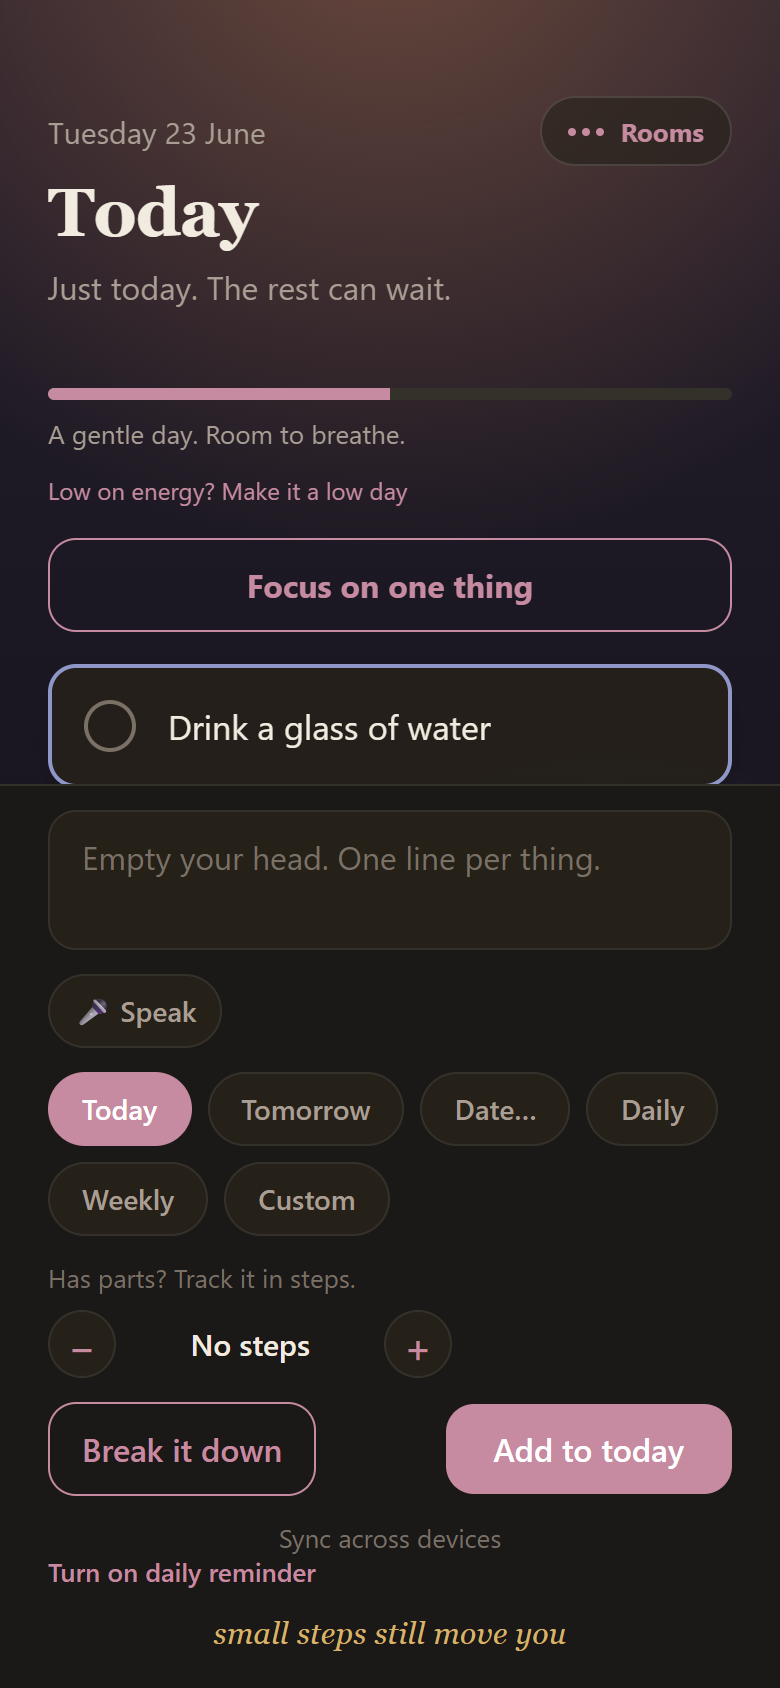
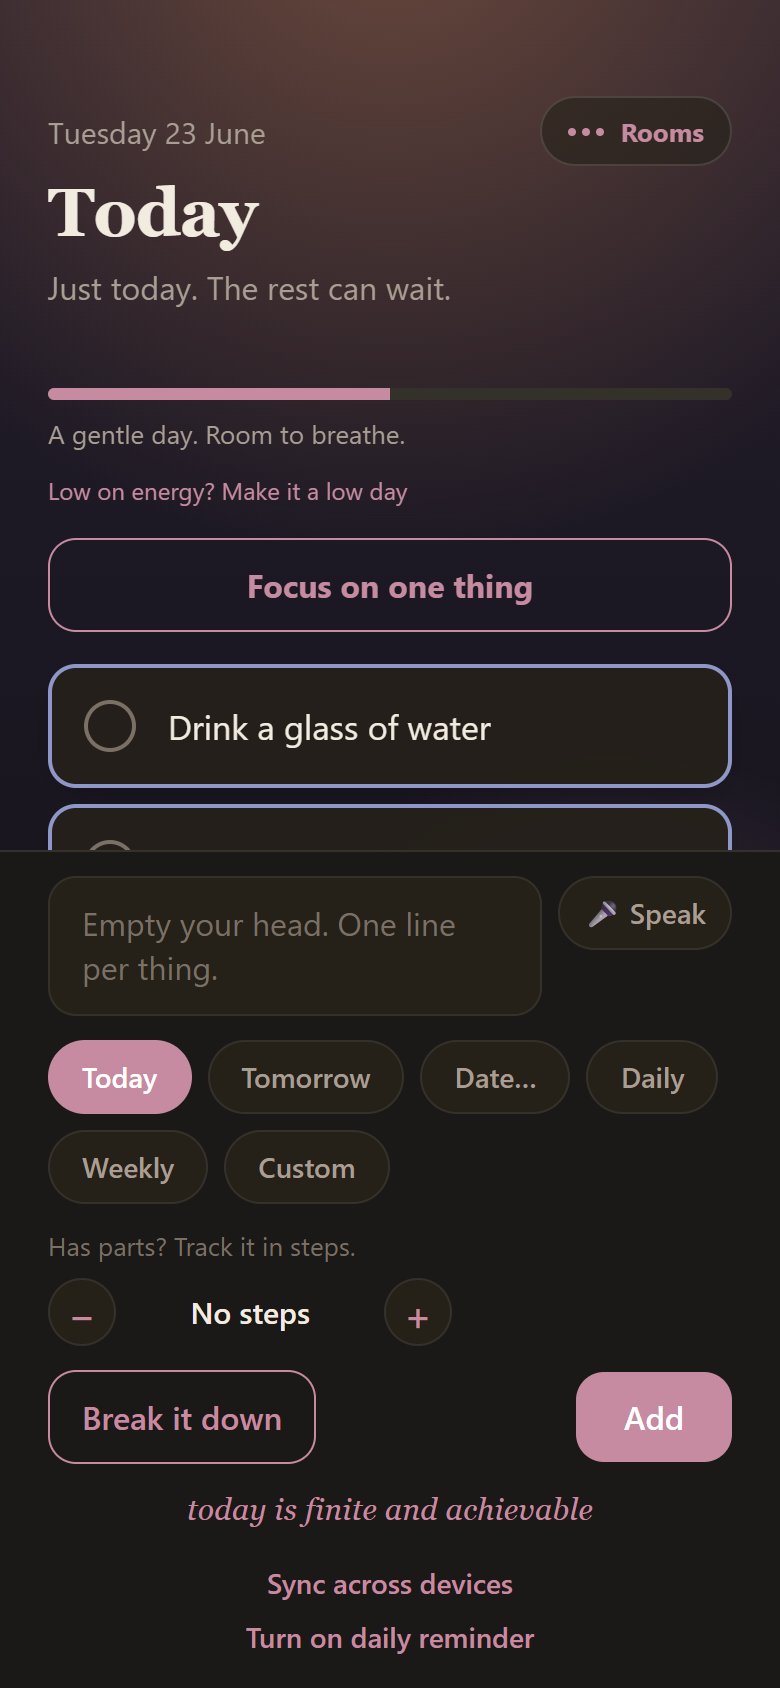
fix(today): inline Speak, neutral "Add" label, optional links below the marquee
From Melroy's live pass on Today:
- Speak now sits inline beside a narrower capture box, not on its own line.
- "Add to today" -> "Add" (the label echoed the default Today chip). Kept one
  clear commit rather than a button-free capture (a when-chip cannot cleanly be
  both selector and commit, and the recurring chips need a confirm regardless).
- "Synced to X" / "Sync across devices" and the daily-reminder toggle moved to a
  centred accent strip below the rolling marquee, the optional things tucked away.

Decision-log updated; screenshots regenerated. Gate: typecheck / lint / 283 + 127.

diff --git a/client/src/app/index.tsx b/client/src/app/index.tsx
@@ -1182,37 +1182,30 @@ export default function TodayScreen() {
         {!isClosed && sortSummary && <Text style={styles.sortSummary}>{sortSummary}</Text>}
         {!isClosed && affirmation && <Text style={styles.affirmation}>{affirmation}</Text>}
         {!isClosed && <BrainDump ref={brainDumpRef} onCapture={capture} onBiteElephant={biteElephant} onSort={sortDump} today={today} />}
-        {isSyncConfigured &&
-          (session ? (
-            <View style={styles.syncRow}>
-              <Text style={styles.syncText} numberOfLines={1}>
-                Synced to {session.user.email ?? 'your account'}
-              </Text>
-              <Pressable onPress={signOut} accessibilityRole="button" accessibilityLabel="Sign out" hitSlop={8}>
-                <Text style={styles.syncAction}>Sign out</Text>
-              </Pressable>
-            </View>
-          ) : (
-            <Pressable
-              onPress={() => router.push('/sign-in')}
-              accessibilityRole="button"
-              accessibilityLabel="Sync across devices"
-            >
-              <Text style={styles.sync}>Sync across devices</Text>
-            </Pressable>
-          ))}
-        <Pressable
-          onPress={toggleReminder}
-          accessibilityRole="button"
-          accessibilityLabel="Toggle daily reminder"
-          hitSlop={6}
-        >
-          <Text style={reminderOn ? styles.sync : styles.syncAction}>
-            {reminderOn ? 'Daily reminder on' : 'Turn on daily reminder'}
-          </Text>
-        </Pressable>
         <View style={styles.ethos}>
           <RotatingPhrase />
+        </View>
+        {/* The optional, low-priority links live below the marquee, calm and out of the way:
+            who you're synced as (or the sync invite) and the daily-reminder toggle. */}
+        <View style={styles.optionalLinks}>
+          {isSyncConfigured &&
+            (session ? (
+              <>
+                <Text style={styles.optLink} numberOfLines={1}>
+                  Synced to {session.user.email ?? 'your account'}
+                </Text>
+                <Pressable onPress={signOut} accessibilityRole="button" accessibilityLabel="Sign out" hitSlop={6}>
+                  <Text style={styles.optFaint}>Sign out</Text>
+                </Pressable>
+              </>
+            ) : (
+              <Pressable onPress={() => router.push('/sign-in')} accessibilityRole="button" accessibilityLabel="Sync across devices" hitSlop={6}>
+                <Text style={styles.optLink}>Sync across devices</Text>
+              </Pressable>
+            ))}
+          <Pressable onPress={toggleReminder} accessibilityRole="button" accessibilityLabel="Toggle daily reminder" hitSlop={6}>
+            <Text style={styles.optLink}>{reminderOn ? 'Daily reminder on' : 'Turn on daily reminder'}</Text>
+          </Pressable>
         </View>
           </>
         )}
@@ -1646,6 +1639,9 @@ const makeStyles = (t: Theme) =>
     syncText: { color: t.colors.inkFaint, fontSize: 13 * t.scale, flexShrink: 1, fontFamily: fonts.body },
     syncAction: { color: t.colors.accent, fontSize: 13 * t.scale, fontWeight: '600', fontFamily: fonts.bodyBold },
     ethos: { marginTop: spacing.three, alignItems: 'center' },
+    optionalLinks: { marginTop: spacing.four, alignItems: 'center', gap: spacing.two },
+    optLink: { color: t.colors.accent, fontSize: 14 * t.scale, fontFamily: fonts.bodyBold, fontWeight: '600', textAlign: 'center' },
+    optFaint: { color: t.colors.inkSoft, fontSize: 13 * t.scale, fontFamily: fonts.body, textAlign: 'center' },
     selectBar: { gap: spacing.three, alignItems: 'center', paddingVertical: spacing.two },
     selectCount: { color: t.colors.ink, fontSize: 15 * t.scale, fontFamily: fonts.bodyBold, fontWeight: '600' },
     selectActions: { flexDirection: 'row', alignItems: 'center', gap: spacing.six },

diff --git a/client/src/components/BrainDump.tsx b/client/src/components/BrainDump.tsx
@@ -38,7 +38,7 @@ const MODES: { mode: Mode; label: string }[] = [
 const WEEKDAYS = ['Su', 'Mo', 'Tu', 'We', 'Th', 'Fr', 'Sa']; // index 0=Sun .. 6=Sat
 
 const ADD_LABEL: Record<Mode, string> = {
-  today: 'Add to today',
+  today: 'Add',
   tomorrow: 'Add for tomorrow',
   date: 'Add for that day',
   daily: 'Add daily',
@@ -228,21 +228,20 @@ export const BrainDump = forwardRef<BrainDumpHandle, Props>(function BrainDump({
 
   return (
     <View style={styles.wrap}>
-      <TextInput
-        ref={inputRef}
-        value={value}
-        onChangeText={setValue}
-        editable={!busy}
-        placeholder="Empty your head. One line per thing."
-        placeholderTextColor={theme.colors.inkFaint}
-        style={styles.input}
-        multiline
-        textAlignVertical="top"
-        accessibilityLabel="Brain-dump. Add one or more things, one per line"
-      />
-
-      {canDictate && (
-        <View style={styles.speakRow}>
+      <View style={styles.captureRow}>
+        <TextInput
+          ref={inputRef}
+          value={value}
+          onChangeText={setValue}
+          editable={!busy}
+          placeholder="Empty your head. One line per thing."
+          placeholderTextColor={theme.colors.inkFaint}
+          style={[styles.input, styles.inputFlex]}
+          multiline
+          textAlignVertical="top"
+          accessibilityLabel="Brain-dump. Add one or more things, one per line"
+        />
+        {canDictate && (
           <Pressable
             onPress={toggleDictation}
             disabled={busy}
@@ -253,11 +252,11 @@ export const BrainDump = forwardRef<BrainDumpHandle, Props>(function BrainDump({
           >
             {listening && <View style={styles.liveDot} />}
             <Text style={[styles.speakText, listening && styles.speakTextOn]}>
-              {listening ? 'Listening… tap to stop' : '🎤 Speak'}
+              {listening ? 'Listening…' : '🎤 Speak'}
             </Text>
           </Pressable>
-        </View>
-      )}
+        )}
+      </View>
 
       <View style={styles.chips}>
         {MODES.map(({ mode: m, label }) => (
@@ -587,7 +586,8 @@ const makeStyles = (t: Theme) => StyleSheet.create({
   disabled: { opacity: 0.5 },
   addText: { color: '#FFFFFF', fontSize: 16 * t.scale, fontFamily: fonts.bodyBold, fontWeight: '600' },
   error: { color: t.colors.accent, fontSize: 14 * t.scale, fontFamily: fonts.body },
-  speakRow: { flexDirection: 'row' },
+  captureRow: { flexDirection: 'row', gap: spacing.two, alignItems: 'flex-start' },
+  inputFlex: { flex: 1 },
   speak: {
     flexDirection: 'row',
     alignItems: 'center',

diff --git a/decision-log.md b/decision-log.md
@@ -1556,3 +1556,12 @@ Decided: the living background stays Today-only (Melroy's call, confirmed) - it 
 - **Behavioural:** a finished one-off used to linger on Today indefinitely (the today-filter only checked due date, never done-ness). `tasksForToday` now keeps a done one-off only on the day it was completed (by its `completedAt`), then it lives in the Lookback. Open tasks still roll forward calmly, never shamed; only completed ones stop carrying; recurring tasks are unchanged (they reset by cadence). Surfaced and fixed a widget-model test that fed a done task a 1970 `completedAt`.
 
 Decided against: dropping a task the instant it is ticked. You want to see today's wins before the day turns over, so a finished task stays until the date changes, then moves to the Lookback.
+
+## 2026-06-23 Today capture + footer redesign (Melroy's live pass, part 2)
+
+More Today feedback from Melroy:
+- **Speak is inline** beside a narrower capture box now, not on its own line below it.
+- **"Add to today" → "Add".** The button echoed the default-selected "Today" chip, which read as redundant. Relabelling the today case to a plain "Add" kills the echo. Melroy was unsure whether to drop the button entirely; I kept one clear "Add" because a button-free capture forces a when-chip to double as both selector and commit (ambiguous on a quick tap), and the Date / recurring chips need a confirm step regardless. For an ADHD capture, an unambiguous commit beats removing one button. Open to the chip-commit version if he prefers after seeing it.
+- **The optional links moved below the rolling marquee:** "Synced to X" (or the sync invite) and "Turn on daily reminder", both centred in the accent colour, out of the way as the low-priority, optional things they are. (Melroy chose "both below the marquee" over promoting sync.)
+
+The old footer stacked sync + reminder above the marquee, left-aligned; the new strip sits below it, centred. Screenshots regenerated.